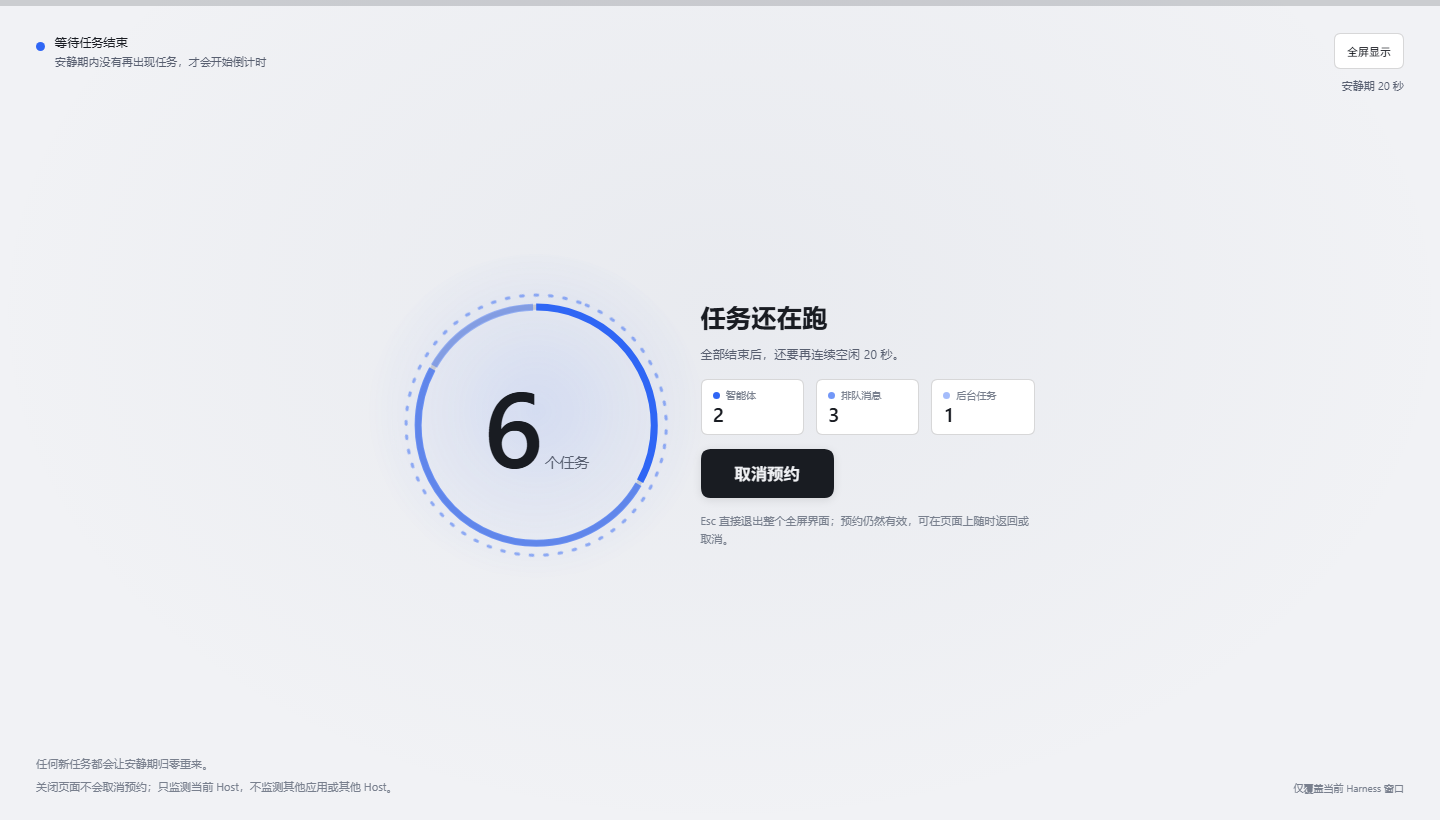
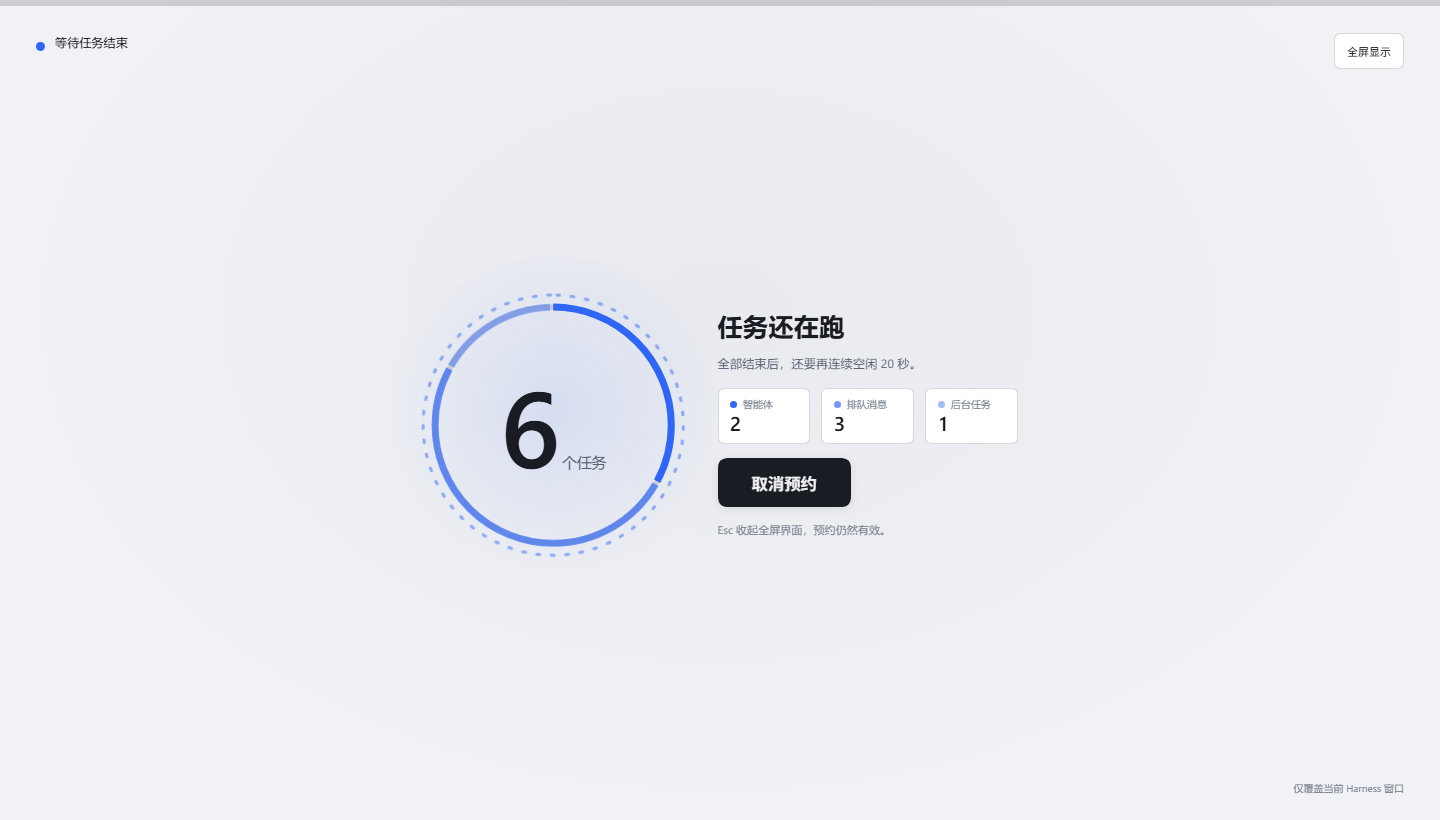
refactor(ui): leave the waiting screen one line of state
The whole-screen wait had accumulated six blocks of prose: a subtitle that
restated the quiet-window rule, a second copy of the window length in the
corner, two footer hints, a shutdown warning, and a two-line Escape note.
The count that matters, its breakdown, the way out and the Escape
affordance are the screen; the rest now appears once, in the support line
under the headline.

The monitoring scope and the shutdown warning stay where they can still
change a decision: the scheduling page and the countdown screen. The Escape
hint is one line, and the scope tag keeps its right-aligned place in a
footer that no longer carries notes.

diff --git a/client.js b/client.js
@@ -69,8 +69,6 @@ const ROUTE_FORCE = 'goodnight/force';
       'awake.onDesc': '阻止系统休眠与锁屏。电脑一旦睡过去，Host 也会被挂起，倒计时就没法按时执行了。',
       'awake.platform': '使用 SetThreadExecutionState 申请；取消预约或命令提交后立即释放。',
       'wait.title': '等待任务结束',
-      'wait.subtitle': '安静期内没有再出现任务，才会开始倒计时',
-      'wait.meta': '安静期 %s 秒',
       'wait.headlineBusy': '任务还在跑',
       'wait.headlineQuiet': '安静期进行中',
       'wait.blockedHint': '全部结束后，还要再连续空闲 %s 秒。',
@@ -86,8 +84,7 @@ const ROUTE_FORCE = 'goodnight/force';
       'wait.agents': '智能体',
       'wait.inbox': '排队消息',
       'wait.jobs': '后台任务',
-      'wait.hint': '任何新任务都会让安静期归零重来。',
-      'wait.escHint': 'Esc 直接退出整个全屏界面；预约仍然有效，可在页面上随时返回或取消。',
+      'wait.escHint': 'Esc 收起全屏界面，预约仍然有效。',
       'section.notes': '说明',
       'mode.hibernate': '休眠',
       'mode.hibernateDesc': '内存快照落盘，等于断电；下次开机原样恢复窗口和未保存的内容。',
@@ -217,8 +214,6 @@ const ROUTE_FORCE = 'goodnight/force';
       'awake.onDesc': 'Blocks sleep and the lock screen. A suspended Host cannot fire its countdown on time.',
       'awake.platform': 'Requested through SetThreadExecutionState and released as soon as the reservation ends or the command is committed.',
       'wait.title': 'Waiting for tasks to finish',
-      'wait.subtitle': 'The countdown only starts once the quiet window passes',
-      'wait.meta': 'Quiet window %s s',
       'wait.headlineBusy': 'Tasks are still running',
       'wait.headlineQuiet': 'Quiet window in progress',
       'wait.blockedHint': 'Once they finish, %s s of quiet is still required.',
@@ -234,8 +229,7 @@ const ROUTE_FORCE = 'goodnight/force';
       'wait.agents': 'Agents',
       'wait.inbox': 'Queued',
       'wait.jobs': 'Jobs',
-      'wait.hint': 'Any new task restarts the quiet window.',
-      'wait.escHint': 'Esc leaves the fullscreen view at once; the reservation stays active and you can return or cancel on the page.',
+      'wait.escHint': 'Esc closes the fullscreen view; the reservation stays.',
       'section.notes': 'Notes',
       'mode.hibernate': 'Hibernate',
       'mode.hibernateDesc': 'Writes a memory snapshot to disk, so the next boot restores every open window and unsaved edit.',
@@ -680,7 +674,10 @@ background-color:rgba(9,11,16,.42);
 .ipa-notes .ipa-hintWarn{color:var(--dsw-alias-label-secondary)}
 /* A hint that sits with the controls rather than in the footer notes. */
 .ipa-stageText .ipa-hintInline{font-size:clamp(11px,1.35vmin,15px);color:var(--dsw-alias-label-tertiary);line-height:1.6;margin:0;max-width:min(56ch,80vw)}
-.ipa-scopeTag{font-size:clamp(10px,1.15vmin,13px);color:var(--dsw-alias-label-tertiary);text-align:right;white-space:nowrap}
+/* margin-inline-start keeps the tag against the right edge when the waiting
+   screen's footer has nothing else in it; the countdown's notes already push it
+   there, so this changes nothing for that screen. */
+.ipa-scopeTag{margin-inline-start:auto;font-size:clamp(10px,1.15vmin,13px);color:var(--dsw-alias-label-tertiary);text-align:right;white-space:nowrap}
 .ipa-feedback{color:var(--dsw-alias-state-error-primary);font-size:clamp(12px,1.5vmin,17px);line-height:1.5;max-width:520px;overflow-wrap:anywhere}
 .ipa-mirrorNote{font-size:clamp(10px,1.15vmin,13px);color:var(--dsw-alias-label-tertiary);line-height:1.5;max-width:44ch}
 .ipa-cta[aria-disabled=true]{opacity:.6;cursor:wait}
@@ -2321,10 +2318,7 @@ background-color:rgba(9,11,16,.42);
           h('div', { className: 'ipa-top' },
             h('div', { className: 'ipa-statusLine' },
               h('span', { className: 'ipa-stateDot', 'aria-hidden': true }),
-              h('div', { className: 'ipa-eyebrow' },
-                t('wait.title'),
-                h('span', { className: 'ipa-eyebrowSub' }, t('wait.subtitle')),
-              ),
+              h('div', { className: 'ipa-eyebrow' }, t('wait.title')),
             ),
             h('div', { className: 'ipa-topRight' },
               screen.supported && !screen.fullscreen && h('button', {
@@ -2333,7 +2327,6 @@ background-color:rgba(9,11,16,.42);
                 title: t('countdown.fullscreenHint'),
                 onClick: () => screen.request(),
               }, t('countdown.fullscreen')),
-              h('div', { className: 'ipa-meta' }, fmt(t('wait.meta'), String(quietTotal))),
             ),
           ),
           h('div', { className: 'ipa-stage' },
@@ -2420,12 +2413,10 @@ background-color:rgba(9,11,16,.42);
               h('p', { className: 'ipa-hint ipa-hintInline' }, t('wait.escHint')),
             ),
           ),
+          // One tag, not a second copy of the walkthrough: the page states the
+          // monitoring scope, and the countdown repeats the shutdown warning at
+          // the moment it can still stop the action.
           h('div', { className: 'ipa-bottom' },
-            h('div', { className: 'ipa-notes' },
-              h('p', { className: 'ipa-hint' }, t('wait.hint')),
-              h('p', { className: 'ipa-hint' }, t('note.scope')),
-              data.mode === 'shutdown' && h('p', { className: 'ipa-hint ipa-hintWarn' }, t('note.shutdown')),
-            ),
             h('div', { className: 'ipa-scopeTag' }, t(screen.fullscreen ? 'countdown.scopeTagFull' : 'countdown.scopeTag')),
           ),
         ),
